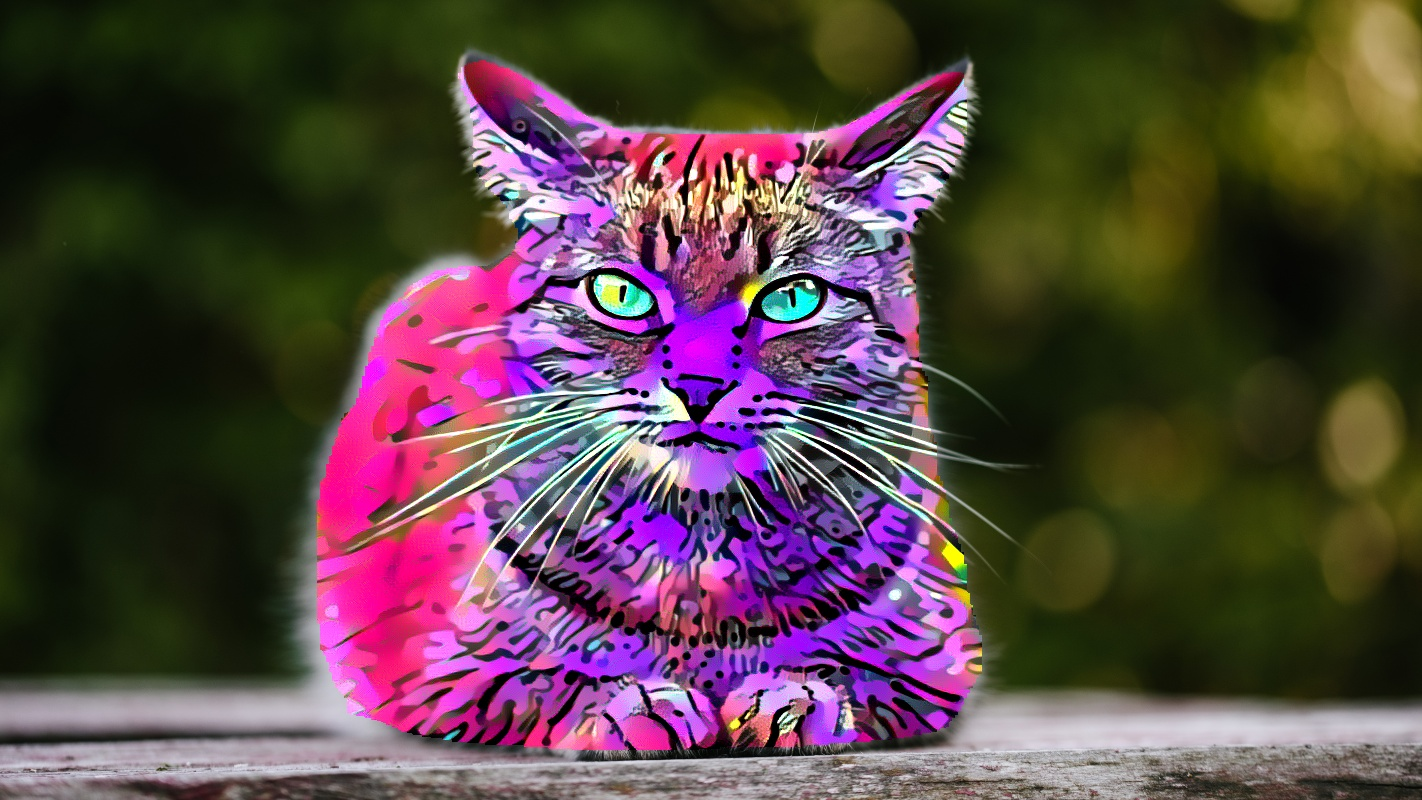
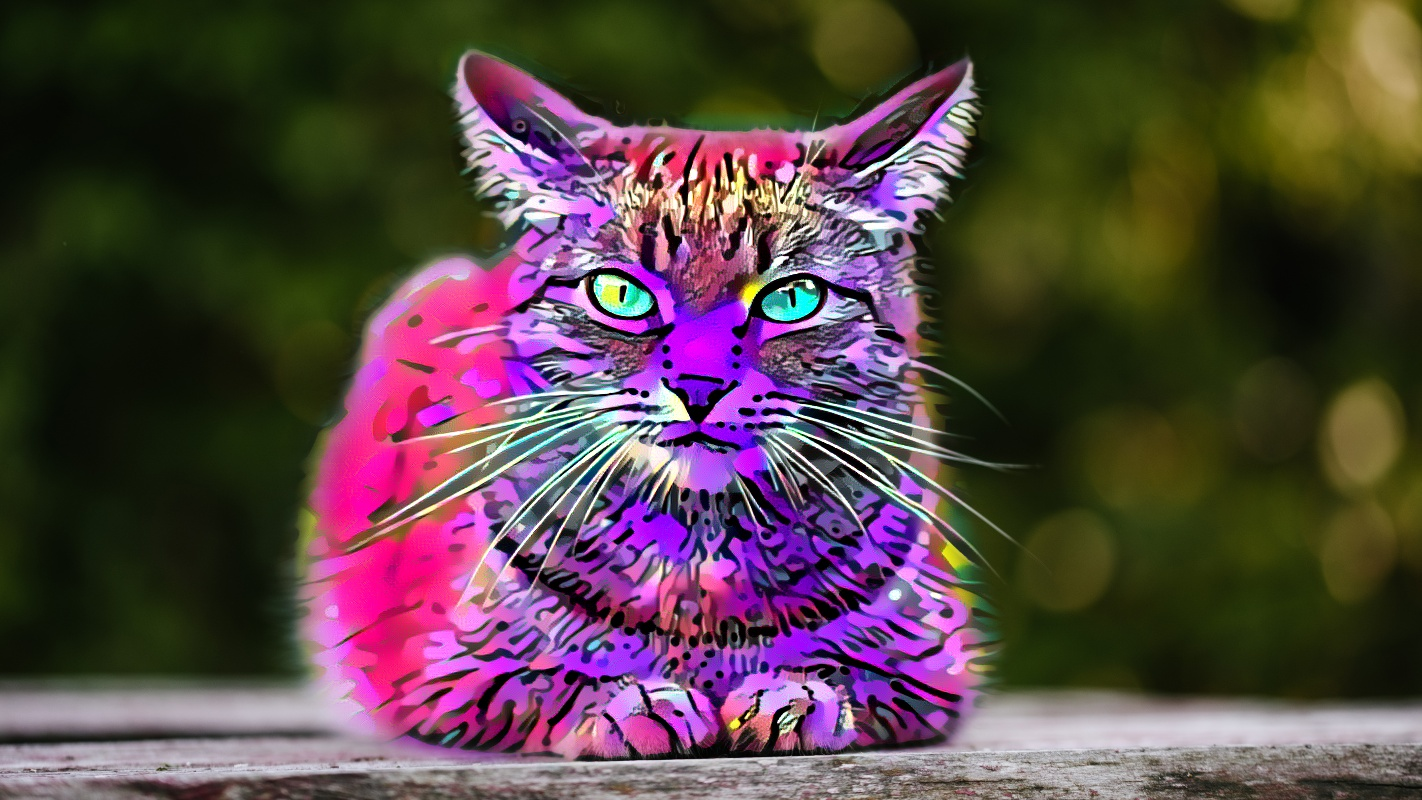
Final changes

diff --git a/main.py b/main.py
@@ -1,4 +1,4 @@
-from config import images_paths, ims_config, combined_folder, overwrite
+from config import images_paths, ims_config, combined_folder, overwrite, mask_blur_size
 from segmentation.segment_image import transfer_styles
 from style_transfer.style_transfer import StyleTransferModel
 import cv2
@@ -20,8 +20,8 @@ if __name__ == "__main__":
 
     # Combine the two
     for im_path in images_paths:
-        for seg_model in ims_config[im_path.name]["seg_models"]:
-            for i, style in enumerate(ims_config[im_path.name]["styles"]):
+        for i, seg_model in enumerate(ims_config[im_path.name]["seg_models"]):
+            for style in ims_config[im_path.name]["styles"]:
 
                 # Get the data for this image, style and model
                 seg_class = ims_config[im_path.name]["class"][i]
@@ -30,13 +30,13 @@ if __name__ == "__main__":
 
                 # Apply mask and get final image
                 original = cv2.imread(im_path.as_posix())
-                output = cv2.resize(original, stylized.shape[:2][::-1])
                 original = cv2.resize(original, stylized.shape[:2][::-1])
                 mask = cv2.resize(mask, stylized.shape[:2][::-1])
-                mask = mask == seg_class
+                mask = (mask == seg_class).astype("uint8")
+                mask = cv2.blur(mask * 255, (mask_blur_size, mask_blur_size)) / 255
                 mask = np.expand_dims(mask, 2)
                 mask = np.repeat(mask, 3, axis=2)
-                output[mask] = stylized[mask]
+                output = (original.astype(float) * (1 - mask) + stylized.astype(float) * mask).astype("uint8")
                 impath = combined_folder / (im_path.stem + "_" + seg_model + "_" + Path(style).stem + ".jpeg")
                 cv2.imwrite(impath.as_posix(), output)
                 print(f"\n***** DONE *****\nSaved final image to {impath}")
@@ -46,4 +46,3 @@ if __name__ == "__main__":
                 cv2.imshow("Stylized image", stylized)
                 cv2.imshow("Final image", output)
                 cv2.waitKey()
-

diff --git a/config.py b/config.py
@@ -20,21 +20,21 @@ combined_folder = output_folder / "combined/"
 combined_folder.mkdir(parents=True, exist_ok=True)
 
 overwrite = False
-mask_blur_size = 100
+mask_blur_size = 50
 
 # Images to process for this run
-images = ["ville.png"]
+images = ["cat.jpg"]
 
 ims_config = {
     "cat.jpg": {
         "seg_models": ["VOC"],
         "styles": ["cartoon.jpg"],
-        "class": [0]   # One per style
+        "class": [8]   # One per model
     },
     "ville.png": {
-        "seg_models": ["VOC", "ADE20k", "Cityscapes"],
-        "styles": ["cartoon.jpg"],
-        "class": [8]   # One per model
+        "seg_models": ["ADE20k"],
+        "styles": ["mondrian.jpg"],
+        "class": [1]   # One per model
     }
 }
 

diff --git a/README.md b/README.md
@@ -85,10 +85,11 @@ To get a local copy up and running follow these simple steps.
 ### Prerequisites
 
 This is an example of how to list things you need to use the software and how to install them.
-* For vitual environnment management: [Pipenv](https://pipenv-fork.readthedocs.io/en/latest/install.html)
+* For virtual envs: [Pipenv](https://pipenv-fork.readthedocs.io/en/latest/install.html)
   ```sh
   pip install --user pipenv
   ```
+Or use your virtual environment manager of choice, requirements are in the [Pipfile](Pipfile)
 
 ### Installation
 
@@ -134,7 +135,6 @@ All the input and output paths and folder can also be found and modified in [con
 ## Roadmap
 
 See the [open issues](https://github.com/Gvanderl/StyleSegments/issues) for a list of proposed features (and known issues).
-
 
 <!-- CONTRIBUTING -->
 ## Contributing
